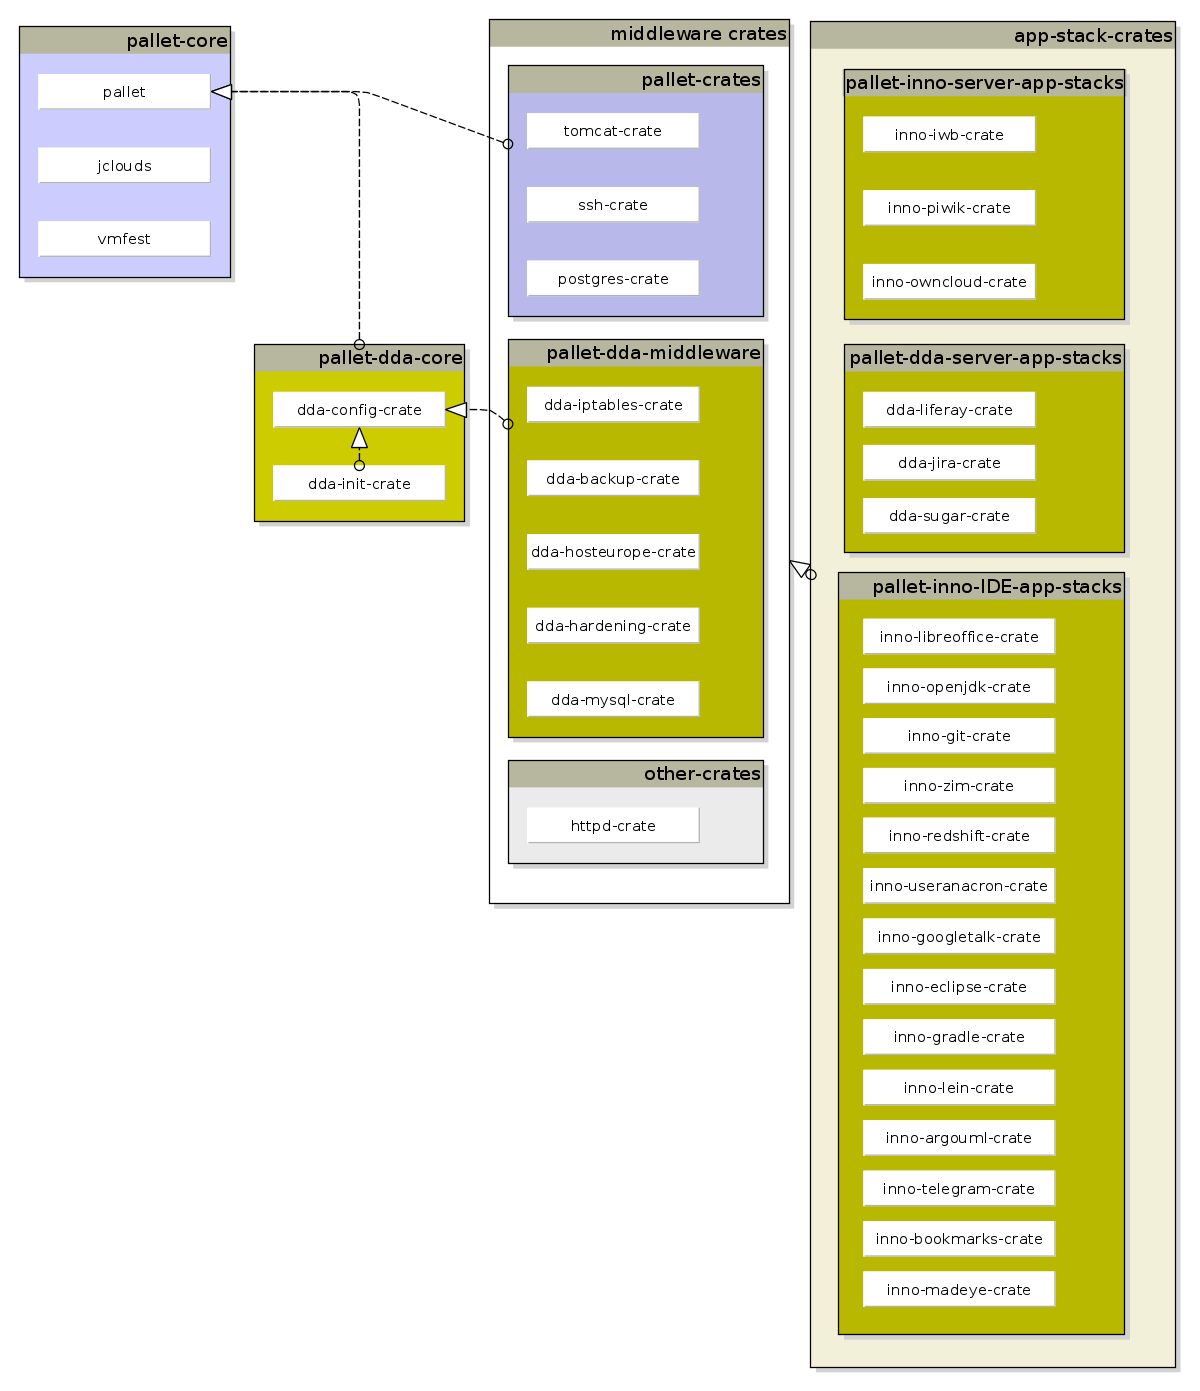
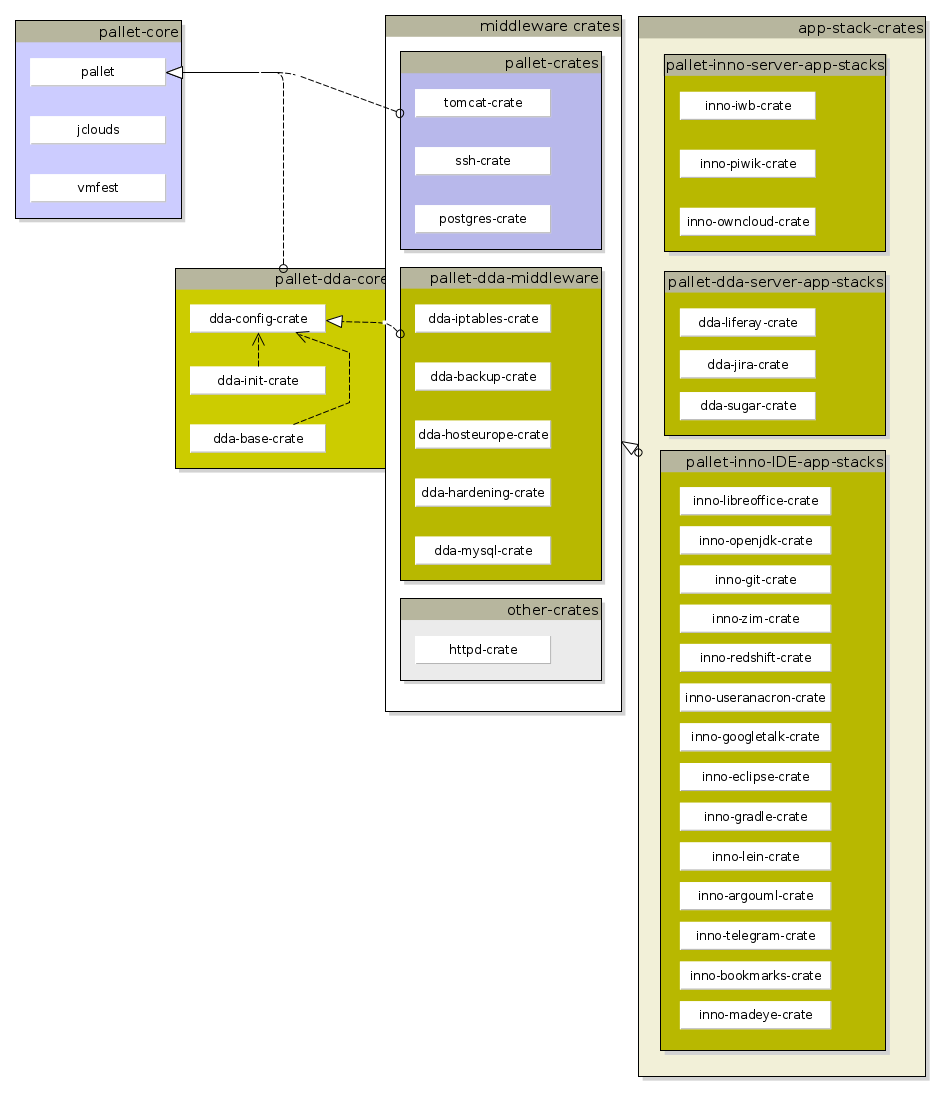
adjusted the phases described state & version mgm fixed overview

diff --git a/en/80_config_management/40_architecture/ddaCore.md b/en/80_config_management/40_architecture/ddaCore.md
@@ -2,23 +2,28 @@
 
 ![Figure 1: Structure of core Elements](../resources/architecture_core_modules.png)
 
-## Module Description
-### ExecutionContext
+## ddaInit
+The ddaInit crate provides a unique cm environment across the diferent underlaying systems (dedicated node, vm, docker container, ...).
+
+## ddaBase
+The ddaBase provides 
+* **Instance-Support** : The install and configuration phase both are instance aware, so the software can be installed single or multiinstance.
+* **StateManagement** : Different states will sprawl across the modules if not governed. So in DDA state is allowed only in one place - in the dda-base-crate. Therefore dda-base-crate reads and writes a statefile per module where module can manage it's state.  
+* **Version Management** : After first installation the modules will evolve and get new features and improvements. In order to support all the existing nodes, ddaBase supports versioned modules and an upgrade mechanism. To support different step sizes collected upgrades are possible.
+
+## ddaConfiguration
+Configuration can for specific ExecutionContexts
+1. provide the effectiveConfiguration and
+2. validate.
+
+TODO: Describe the overwrite hierarchy.
+
+
+# TBD
+## ExecutionContext
 The ExecutionContext encapsulates the state recognized for application of config management:
 * pointInTime - the current world time
 * organisationUnit - the organizational execution context. May be tenant or finer grained organizational units. 
 * targetSystem - pallet default representation of target system facts like ip, os-type and so on.
 * targetInstallationState - additional dda representation of target system's installation state.  
 * targetEnvType - additional dda represantation of target environment type like dev, test, integration or production.  
- 
-### StateAndInstanceSupport
-The StateAndInstanceSupport can 
-* read/write target system's installation state &
-* manage the installation & configuration of server- and instance-leveled config management specifications. 
-
-### Configuration
-Configuration can for specific ExecutionContexts
-1. provide the effectiveConfiguration and
-2. validate.
-
-In addition Configuration resolves the noted overwrite hierarchy. 

diff --git a/en/80_config_management/40_architecture/Phases.md b/en/80_config_management/40_architecture/Phases.md
@@ -2,6 +2,6 @@
 * **bootstrap**: Bootstrap is a pallet convention. In this pahse new vm's are provisioned.
 * **init**: Init is a dda convention. Init configures already existing nodes for the use with pallet.  
 * **settings**: Settings is a pallet convention. The settings phase collects config and other information from crates (and nodes) without providing side effects. So the settings phase does not alter state of servers and nodes. 
-* **install**: Install is a dda convention. The install phase brings software to nodes. The installation is intended to take effect only once. The state is managed by the dda-config-crate in combination with dda-crate. Functions in install-phase should be able to be called multiple times and support the simulation mode. Install uses the newest available version.
-* **upgrade**: Upgrade is a dda convention. The upgrade phase compares the version installed and the version intended for configuration. If there is a difference, upgrade can apply migration scripts.Functions in upgrade-phase should be able to be called multiple times and support the simulation mode.
+* **install**: Install is a dda convention. The install phase brings software to nodes. The installation is intended to take effect only once. Functions in install-phase should be able to be called multiple times. Install uses per default the newest module version or the specified one.
 * **configure**: Configure is a pallet convention. Configure brings the newest configuration to the target nodes. Configure is intended to be called on a regular base. Functions in configure-phase should support the simulation mode.
+* **app-rollout**: Upgrade is a dda convention. The upgrade phase compares the version installed and the version intended for configuration. If there is a difference, upgrade can apply migration scripts.Functions in upgrade-phase should be able to be called multiple times and support the simulation mode.

diff --git a/en/80_config_management/SUMMARY_INCLUDE.md b/en/80_config_management/SUMMARY_INCLUDE.md
@@ -7,6 +7,10 @@
     * [Configuration](80_config_management/30_requirements/configuration.md)
     * [WebServer](80_config_management/30_requirements/webServer.md)
   * [Architecture](80_config_management/40_architecture/README.md)
-    * [DDA core](80_config_management/40_architecture/ddaCore.md)
+    * [Config Distribution](80_config_management/40_architecture/ConfigDistribution.md)
+    * [Module Overview](80_config_management/40_architecture/Modules.md)
+    * [Core Modules](80_config_management/40_architecture/ddaCore.md)
+    * [Phases](80_config_management/40_architecture/Phases.md)
+    * [App Rollout](80_config_management/40_architecture/AppRollout.md)
   * [Realization](80_config_management/50_realization/README.md)
     * [Module WebServer](80_config_management/50_realization/webServer.md)

diff --git a/en/80_config_management/40_architecture/AppRollout.md b/en/80_config_management/40_architecture/AppRollout.md
@@ -1,0 +1,3 @@
+# App Rollout
+
+TODO: Describe
